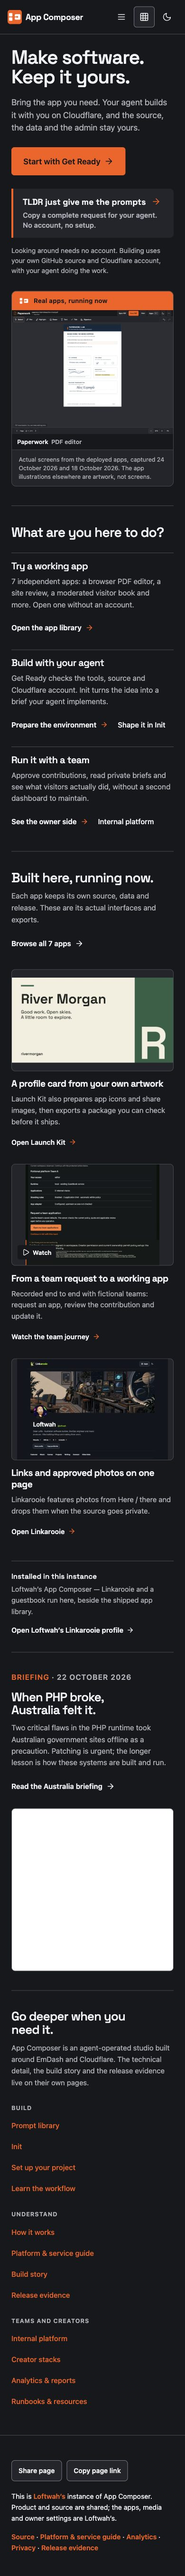
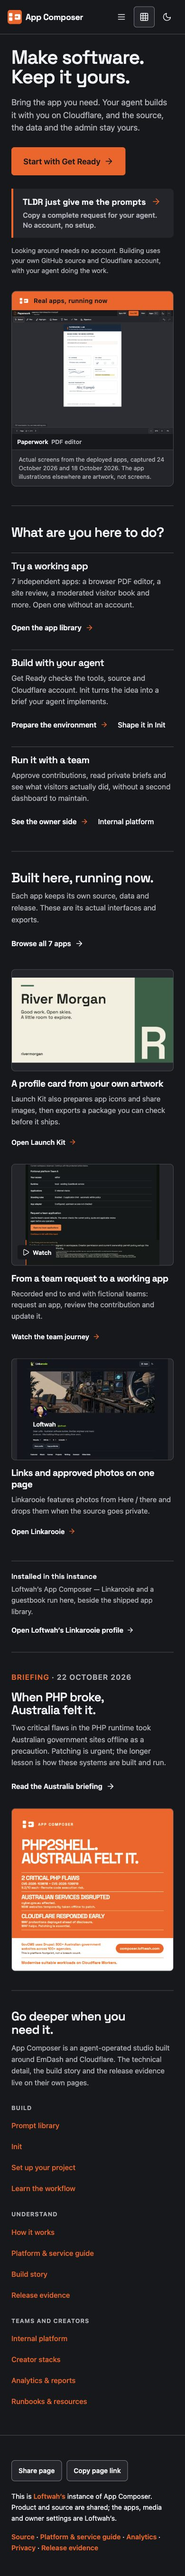
Recapture the phone full page with the campaign image decoded

Changed region(s): [[0.0615, 0.6836, 0.9538, 0.7768]]

diff --git a/docs/evidence/homepage-20261024/README.md b/docs/evidence/homepage-20261024/README.md
@@ -34,7 +34,9 @@ this branch, not generated artwork or production claims.
 | `after-text200-dark-{1440,390}-fold.png` | `/` after, 32px root font | 1440/390 | dark |
 
 Full-page captures use JPEG to keep the evidence bounded; first-viewport
-captures stay PNG so text edges and focus rings are legible.
+captures stay PNG so text edges and focus rings are legible. Lazy images were
+switched to eager and decoded before each full-page shot, because a full-page
+screenshot does not wait for an image that has never entered the viewport.
 
 ## Measured change
 
